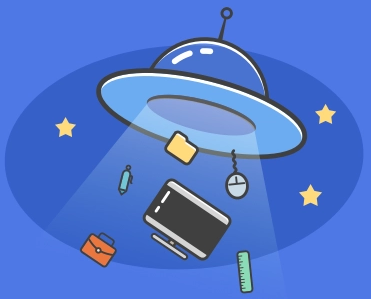
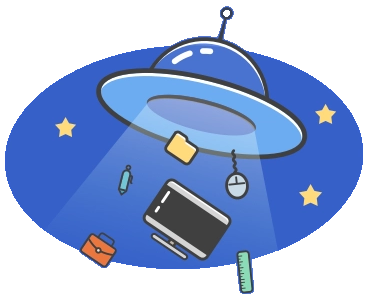
final design + readme changes

diff --git a/index.html b/index.html
@@ -4,14 +4,14 @@
     <meta charset="UTF-8">
     <meta http-equiv="X-UA-Compatible" content="IE=edge">
     <meta name="viewport" content="width=device-width, initial-scale=1.0">
-    <title>Document</title>
+    <title>Ufo</title>
 </head>
 <body style="background-color: #4E78E5;">
-    <main style="width: 50%;margin-top: 200px; margin-left: 25%; display: inline-block;">
+    <main style="width: 50%;margin-top: 180px; margin-left: 25%; display: inline-block;">
         <div style="width: 40%; float: left; margin-top: 100px;">
             <h1 style="color: white; font-size: 80px; margin: 0;">404</h1>
             <p style="color: white; text-transform: uppercase; font-size: 30px; margin: 0; margin-bottom: 20px;">Page not found</p>
-            <a href="#" style="color: white;">Go to home</a>
+            <a href="#" style="display: inline-block; color: white; text-decoration: none; font-size: 17px; font-family: Arial; border: 2px solid white; padding: 10px; padding-left: 30px; padding-right: 30px;  border-radius: 21px;">Go to home</a>
         </div>
         <img src="./img/ufo.png" alt="UFO lekste" style="width: 60%; float: right;">
     </main>

diff --git a/README.md b/README.md
@@ -1,2 +1,68 @@
-# 01-intro
-Simple design, learning HTML and CSS
+# UFO
+
+_website design project_
+
+<br>
+
+## 🌟 About
+
+This project is for educational porpuses only. Pull request are welcome, but priority for project authors! Thank you for your cooperation!
+
+Site published at: https://aurimas1551.github.io/01-intro/
+
+Design: [UFO](./img/ufo.png)
+
+## 🎯 Project features/goals
+
+-   Github pages
+-   basic [HTML (structure)](https://www.w3schools.com/TAGS/default.asp) and CSS (style)
+-   [markdown](https://docs.github.com/en/get-started/writing-on-github/getting-started-with-writing-and-formatting-on-github/basic-writing-and-formatting-syntax)
+
+## 🧰 Getting Started
+
+### 💻 Prerequisites
+
+Node.js - _download and install_
+
+```
+https://nodejs.org
+```
+
+Git - _download and install_
+
+```
+https://git-scm.com
+```
+
+### 🏃 Run locally
+
+Would like to run this project locally? Open terminal and follow these steps:
+
+1. Clone the repo
+    ```sh
+    git clone https://github.com/aurimas1551/01-intro.git
+    ```
+2. Install NPM packages
+    ```sh
+    npm i
+    ```
+    or
+    ```sh
+    npm install
+    ```
+3. Run the server
+    ```sh
+    npm run dev
+    ```
+
+### 🧪 Running tests
+
+There is no tests for this project.
+
+## 🎅 Authors
+
+Aurimas: [Github](https://github.com/aurimas1551)
+
+## 🔗 Other resources
+
+No other resouces.
